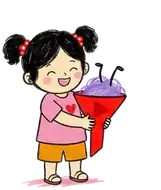
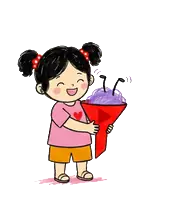
fix(mascots): re-cut the duo sieve loop so Kriti is whole and still
duo_sieve_01..11 came from a fixed-grid cut of the v3 sheet: frames 02 and 04
sliced Kriti's left hair bun on a straight line, ink touched the frame edges, and
she shifted sideways from frame to frame, so the Home greeting and About loops
showed her clipped and jittering.

Same re-cut as the app (Android 2d1877068): ink kept with its own Kriti, the sheet's
second row scaled to the first, every frame registered on her shorts, transparent
margin on every side. 180x200 here (0.9:1), lighter alpha so the folder stays inside
the 1.6 MB budget. The padded frames draw her a little smaller, so the Home loop
goes 150 -> 168 px tall (151 px wide in its 180 px slot) and About 180 -> 196 px
(176 px wide in its 180 px column); About's still picture gets the new 180x200 box.

Changed region(s): [[0.0, 0.1316, 0.8075, 1.0]]

diff --git a/html/tab-view.html b/html/tab-view.html
@@ -2697,7 +2697,7 @@
 
                         <section class="ft-about-duo" data-ft-duo-story aria-labelledby="ftAboutDuoTitle">
                             <div class="ft-about-duo__art" aria-hidden="true">
-                                <img class="ft-about-duo__picture" src="../assets/images/mascots/duo_sieve_01.webp" alt="" width="180" height="180">
+                                <img class="ft-about-duo__picture" src="../assets/images/mascots/duo_sieve_01.webp" alt="" width="180" height="200">
                             </div>
                             <div class="ft-about-duo__words">
                                 <h3 id="ftAboutDuoTitle" class="ft-about-duo__title" data-ft-i18n="about.duo.title">Kriti and Uljhan</h3>

diff --git a/js/mascots.js b/js/mascots.js
@@ -2665,7 +2665,7 @@
         const host = doc.querySelector('#aboutView .ft-about-duo__art');
         const picture = host?.querySelector('.ft-about-duo__picture');
         if (!host || !picture) return;
-        const loop = mountLoop(host, 'duoSieveLoop', { height: 180, className: 'ft-about-duo__loop' });
+        const loop = mountLoop(host, 'duoSieveLoop', { height: 196, className: 'ft-about-duo__loop' });
         const sync = () => { picture.hidden = !!loop && showsCharacters(companionMode); };
         sync();
         onModeChange(sync);

diff --git a/css/dashboard-home.css b/css/dashboard-home.css
@@ -175,7 +175,7 @@ body.ft-extension-surface #sidebarNav .nav-item.nav-item--quiet[aria-current="pa
   color: var(--pk-muted);
 }
 .ft-home-greeting__duo { width: 180px; display: flex; justify-content: center; align-self: end; }
-.ft-home-greeting__duo .pk-loop__art { height: 150px; }
+.ft-home-greeting__duo .pk-loop__art { height: 168px; } /* duo frames are 0.9:1 with a transparent margin: 151px wide */
 :root[data-theme] body.ft-extension-surface #dashboardView[data-ft-home] .ft-home .ft-dash-status {
   margin: 0;
   padding: 12px 14px;

diff --git a/js/dashboard_home.js b/js/dashboard_home.js
@@ -311,7 +311,7 @@
         root.addEventListener('filtertube-ui-locale-changed', render);
         root.setInterval(render, 5 * 60 * 1000);
         const duo = doc.getElementById('ftHomeDuo');
-        const mount = () => root.FilterTubeMascots?.mountLoop?.(duo, 'duoSieveLoop', { height: 150, className: 'ft-home-duo' });
+        const mount = () => root.FilterTubeMascots?.mountLoop?.(duo, 'duoSieveLoop', { height: 168, className: 'ft-home-duo' });
         if (duo && !mount()) root.setTimeout(mount, 400);
     }
 

diff --git a/css/mascots.css b/css/mascots.css
@@ -492,4 +492,4 @@ html[data-theme="dark"] .ft-mascot-tally {
 .ft-mascot--medal .ft-mascot__image { height: 72px; }
 
 /* About: the v3 sieve loop takes the place of the static picture. */
-.ft-about-duo__loop .pk-loop__art { height: 180px; }
+.ft-about-duo__loop .pk-loop__art { height: 196px; } /* 176px wide in the 180px column */
